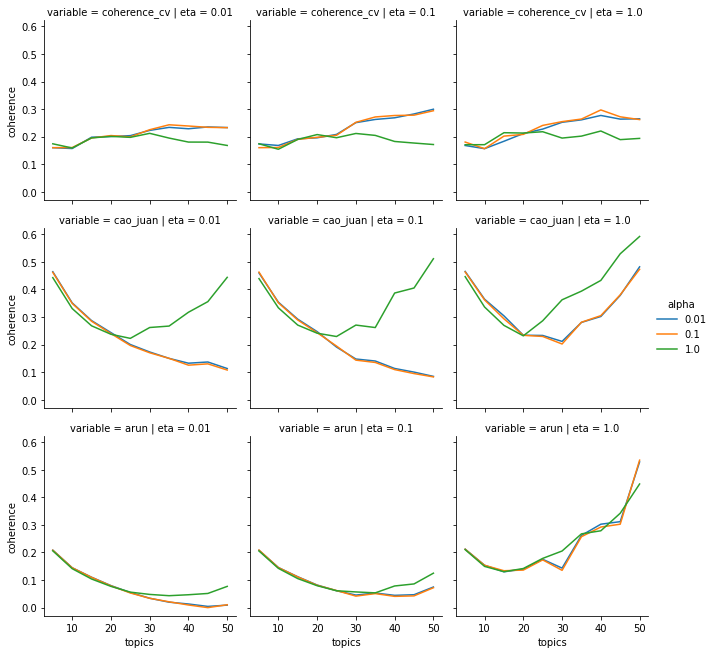
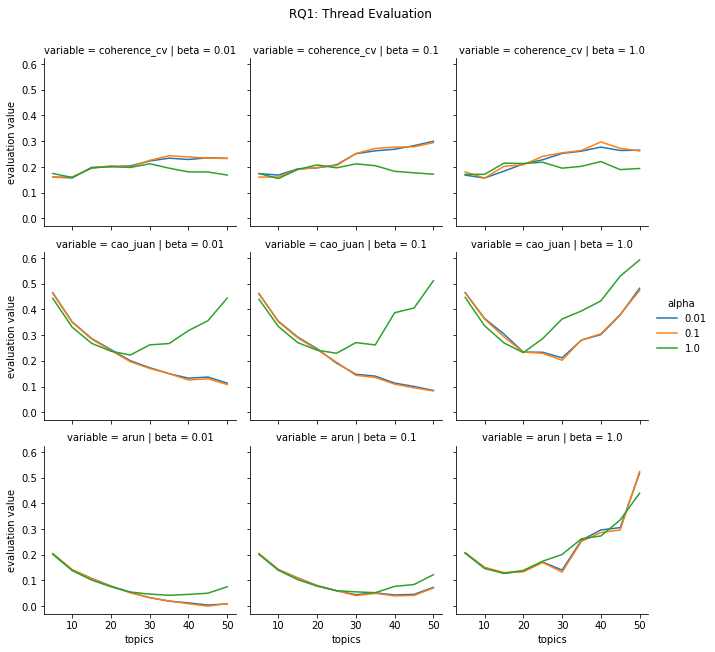
nice figures, nice code

diff --git a/SmartHome/NLP_visualization/visualization_functions.py b/SmartHome/NLP_visualization/visualization_functions.py
@@ -1,0 +1,116 @@
+import pandas as pd 
+import os 
+import random
+import matplotlib.pyplot as plt
+import numpy as np
+import pickle
+import seaborn as sns 
+from os import listdir
+from os.path import isfile, join
+import re 
+import gensim 
+import pyLDAvis
+import pyLDAvis.gensim
+import warnings
+from wordcloud import WordCloud
+warnings.filterwarnings("ignore", category=DeprecationWarning)
+
+## load function. 
+def pickle_load(filename, folder): 
+    with open(f"../data/{folder}/{filename}.pkl", "rb") as f:
+        file = pickle.load(f) 
+    return file
+
+def topic_names(models, k): 
+
+    liste = [] 
+
+    for i in range(k): 
+        print(models.print_topic(i, 10))
+        label = input("Topic Label: ")
+        liste.append(label)
+        print(liste)
+
+    return liste
+
+## to dataframe - melt - group
+def label_counts(filename): 
+
+    with open(f"../data/evaluation/{filename}.pkl", "rb") as f:
+        labels = pickle.load(f) 
+
+    df = pd.DataFrame.from_dict(labels)
+    df['topic-number'] = [i for i in range(30)]
+    df_melt = pd.melt(df, value_vars = ['tree30', 'thread30'], id_vars= 'topic-number')
+
+    df_grouped = pd.DataFrame({'count' : df_melt.groupby(['value', 'variable']).size()}).reset_index()
+    df_sorted = df_grouped.sort_values(['count'], ascending = False).reset_index(drop=True)
+    df_sorted = df_sorted.rename(columns={"value": "topics", "variable": "model"})
+    df_sorted["model"].replace({"thread30": "thread", "tree30": "tree"}, inplace=True)
+
+    return df_melt, df_sorted
+
+## function for plotting frequency
+def frequency_plot(df, drop = False): 
+
+    ## groups to exclude from the plot. 
+    if drop != False:
+        df = df[-df["topics"].isin(drop)]
+
+    ## plot 
+    fig = sns.barplot(data = df, x = "topics", y = "count", hue = "model")
+    plt.xlabel("Overall Topics")
+    plt.ylabel("Count")
+    plt.title("Occurence of overall topics in thread and tree models with k = 30")
+    plt.xticks(rotation=70)
+    plt.tight_layout()
+
+## return a list of labels 
+def label_subset(df, labels, model):
+    df = df[(df.variable == model) & (df.value.isin(labels))]
+    lst = df['topic-number'].tolist() 
+    return lst
+
+## wordcloud of one image: 
+def plot_image(model, topic): 
+    plt.figure()
+    plt.imshow(WordCloud(background_color = "white").fit_words(dict(model.show_topic(topic, 50))), interpolation = "bilinear")
+    plt.axis("off")
+    plt.suptitle(f"topic #{str(topic)}")
+    plt.show()
+
+## page through images and create a list: 
+def create_image_list(model):
+    lst = []
+    for i in range(30): 
+        plot_image(model, i)
+        interesting = input("Is this what you were looking for? (y/n): ").lower()
+        if interesting == "y" or interesting == "yes": 
+            print("was interesting & appended")
+            lst.append(i)
+        else: 
+            print("was not interesting & not appended")
+            pass 
+    return lst
+
+## wordcloud of a list of images: 
+def plot_images(model, topics, header, columns = 5):
+    
+    import math
+    
+    total_img = len(topics)
+    rows = math.ceil(total_img/columns)
+    fig, axs = plt.subplots(rows, columns, figsize=(5*columns, (5*rows)-2))
+    
+    for i in range(rows):
+        cols_left = min(total_img, columns)
+        if total_img < columns:
+            for k in range(total_img,columns):
+                fig.delaxes(axs[i, k])
+        for j in range(cols_left):
+                axs[i,j].imshow(WordCloud(background_color = "white").fit_words(dict(model.show_topic(topics[(i*columns)+j], 50))))
+                axs[i,j].axis("off")
+                axs[i,j].set_title("Topic #" + str(topics[(i*columns)+j]), fontsize = 30)
+        total_img -= columns
+    fig.tight_layout()
+    fig.suptitle(header, fontsize = 40)

diff --git a/SmartHome/NLP_evaluation/evaluation_functions.py b/SmartHome/NLP_evaluation/evaluation_functions.py
@@ -21,97 +21,12 @@ def pickle_load(filename, folder):
         file = pickle.load(f) 
     return file
 
-def topic_names(models, k): 
-
-    liste = [] 
-
-    for i in range(k): 
-        print(models.print_topic(i, 10))
-        label = input("Topic Label: ")
-        liste.append(label)
-        print(liste)
-
-    return liste
-
-## to dataframe - melt - group
-def label_counts(filename): 
-
-    with open(f"../data/evaluation/{filename}.pkl", "rb") as f:
-        labels = pickle.load(f) 
-
-    df = pd.DataFrame.from_dict(labels)
-    df['topic-number'] = [i for i in range(30)]
-    df_melt = pd.melt(df, value_vars = ['tree30', 'thread30'], id_vars= 'topic-number')
-
-    df_grouped = pd.DataFrame({'count' : df_melt.groupby(['value', 'variable']).size()}).reset_index()
-    df_sorted = df_grouped.sort_values(['count'], ascending = False).reset_index(drop=True)
-    df_sorted = df_sorted.rename(columns={"value": "topics", "variable": "model"})
-    df_sorted["model"].replace({"thread30": "thread", "tree30": "tree"}, inplace=True)
-
-    return df_melt, df_sorted
-
-## function for plotting frequency
-def frequency_plot(df, drop = False): 
-
-    ## groups to exclude from the plot. 
-    if drop != False:
-        df = df[-df["topics"].isin(drop)]
-
-    ## plot 
-    fig = sns.barplot(data = df, x = "topics", y = "count", hue = "model")
-    plt.xlabel("Overall Topics")
-    plt.ylabel("Count")
-    plt.title("Occurence of overall topics in thread and tree models with k = 30")
-    plt.xticks(rotation=70)
-    plt.tight_layout()
-
-## return a list of labels 
-def label_subset(df, labels, model):
-    df = df[(df.variable == model) & (df.value.isin(labels))]
-    lst = df['topic-number'].tolist() 
-    return lst
-
-## wordcloud of one image: 
-def plot_image(model, topic): 
-    plt.figure()
-    plt.imshow(WordCloud(background_color = "white").fit_words(dict(model.show_topic(topic, 50))), interpolation = "bilinear")
-    plt.axis("off")
-    plt.suptitle(f"topic #{str(topic)}")
-    plt.show()
-
-## page through images and create a list: 
-def create_image_list(model):
-    lst = []
-    for i in range(30): 
-        plot_image(model, i)
-        interesting = input("Is this what you were looking for? (y/n): ").lower()
-        if interesting == "y" or interesting == "yes": 
-            print("was interesting & appended")
-            lst.append(i)
-        else: 
-            print("was not interesting & not appended")
-            pass 
-    return lst
-
-## wordcloud of a list of images: 
-def plot_images(model, topics, header, columns = 5):
-    
-    import math
-    
-    total_img = len(topics)
-    rows = math.ceil(total_img/columns)
-    fig, axs = plt.subplots(rows, columns, figsize=(5*columns, (5*rows)-2))
-    
-    for i in range(rows):
-        cols_left = min(total_img, columns)
-        if total_img < columns:
-            for k in range(total_img,columns):
-                fig.delaxes(axs[i, k])
-        for j in range(cols_left):
-                axs[i,j].imshow(WordCloud(background_color = "white").fit_words(dict(model.show_topic(topics[(i*columns)+j], 50))))
-                axs[i,j].axis("off")
-                axs[i,j].set_title("Topic #" + str(topics[(i*columns)+j]), fontsize = 30)
-        total_img -= columns
-    fig.tight_layout()
-    fig.suptitle(header, fontsize = 40)
-    #return fig
+## coherence plots for evaluation
+def eval_seaborn(df, name): 
+    g = sns.FacetGrid(df, col = "beta", row = "variable", hue = "alpha")
+    g.map_dataframe(sns.lineplot, x = "topics" , y = "value")
+    g.set_axis_labels("topics", "evaluation value")
+    plt.subplots_adjust(top=0.9)
+    g.fig.suptitle(name)
+    g.add_legend()
+    return(g)

diff --git a/SmartHome/NLP_evaluation/plot_eval_metrics.py b/SmartHome/NLP_evaluation/plot_eval_metrics.py
@@ -1,0 +1,55 @@
+import pandas as pd 
+import os 
+import random
+import matplotlib.pyplot as plt
+import numpy as np
+import pickle
+import seaborn as sns 
+from os import listdir
+from os.path import isfile, join
+import re 
+
+from evaluation_functions import *
+
+## get all the files: 
+## we ran it in several batches: 
+with open("../data/evaluation/evaluation_metrics.pkl", "rb") as f:
+        eval1 = pickle.load(f) 
+
+with open("../data/evaluation/H2_evaluation_metrics.pkl", "rb") as f:
+        eval2 = pickle.load(f)
+
+with open("../data/evaluation/H1_tree_eval_b1.0.pkl", "rb") as f:
+        eval3 = pickle.load(f)
+
+with open("../data/evaluation/H1_tree_metrics_b0.01_b0.1.pkl", "rb") as f: 
+        eval4 = pickle.load(f)
+
+## combine the two: 
+eval = pd.concat([eval1, eval2, eval3, eval4])
+
+## correct data type for topics, eta, alpha and rename: 
+eval[['topics', 'alpha', 'eta']] = eval[['topics', 'alpha', 'eta']].apply(pd.to_numeric) 
+eval = eval.rename(columns = {'eta': 'beta', 'coherence': 'evaluation'}, inplace = False)
+
+## arun between 0-1: 
+eval = eval.apply(lambda x: ((x-min(x))/(max(x)-min(x))) if x.name == 'arun' else x)
+
+## long format for plotting: 
+eval_melt = pd.melt(eval, id_vars = ['hypothesis', 'condition', 'topics', 'alpha', 'beta'], value_vars = ['coherence_cv', 'cao_juan', 'arun'])
+
+## subsets for H1_thread, H1_tree, H2_submissions
+thread_melt = eval_melt[(eval_melt.hypothesis == "H1") & (eval_melt.condition == "thread") & (eval_melt.topics <= 50)] 
+tree_melt = eval_melt[(eval_melt.hypothesis == "H1") & (eval_melt.condition == "tree") & (eval_melt.topics <= 50)] 
+sub_melt = eval_melt[(eval_melt.hypothesis == "H2") & (eval_melt.topics <= 50)]
+
+# plotting
+thread_plot = eval_seaborn(thread_melt, "RQ1: Thread Evaluation")
+tree_plot = eval_seaborn(tree_melt, "RQ1: Tree Evaluation")
+sub_plot = eval_seaborn(sub_melt, "RQ2: Submissions Evaluation")
+
+# save figures: 
+thread_plot.savefig("../Figure/H1_thread.png")
+tree_plot.savefig("../Figure/H1_tree.png")
+sub_plot.savefig("../Figure/H2_submissions.png")
+
